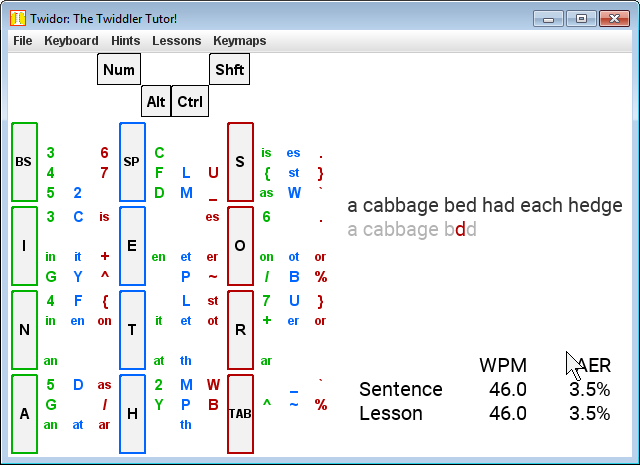
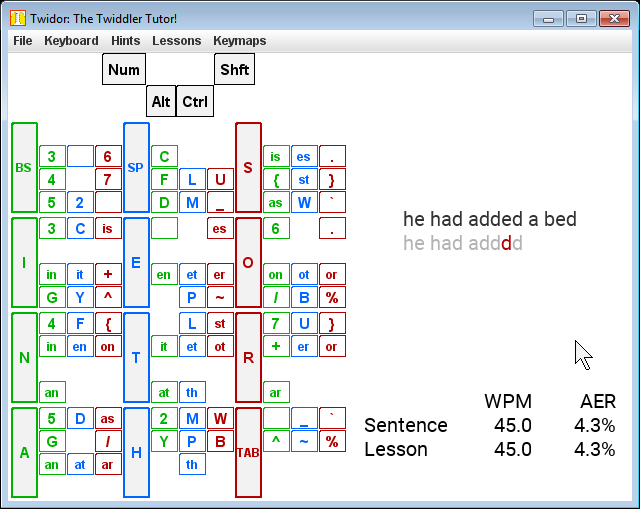
draw boxes around 2nd-key chords in keymap

diff --git a/src/FingerPanel.java b/src/FingerPanel.java
@@ -157,7 +157,7 @@ public class FingerPanel extends JPanel implements TwiddlerSubPanel, TwidorConst
 		{
 			JPanel panel = new JPanel();
 			panel.setComponentOrientation( keyOrient );
-			panel.setLayout(new GridLayout(0, 12, 0, 4));
+			panel.setLayout(new GridLayout(0, 12, 1, 4));
 			panel.setBackground(twiddlerBackground);
 
 			for (int finger = 0; finger < 4; finger++) { // four rows, one per finger
@@ -172,28 +172,28 @@ public class FingerPanel extends JPanel implements TwiddlerSubPanel, TwidorConst
 						for (int chordCol = 0; chordCol < 3; chordCol++) {
 							JPanel subPanel = new JPanel();
 							subPanel.setComponentOrientation( keyOrient );
-							subPanel.setLayout(new GridLayout(4, 1, 0, 0));
+							subPanel.setLayout(new GridLayout(4, 1, 1, 1));
 							subPanel.setBackground(twiddlerBackground);
 							for (int chordFinger = 0; chordFinger < 4; chordFinger++) { // anchor finger
 								if (finger != chordFinger && visibleKeys) {
 									((KeyStatus)buttons.elementAt(chordFinger * FINGER_OFFSET + chordCol)).setStatus(true);
 									KeyElement myButton = keys.getKey(buttons);
+									Color color = keyRed;
+									Border border = redBorder;
+									if (chordCol == 1) {
+										color  = keyBlue;
+										border = blueBorder;
+									}
+									else if (chordCol == 2) {
+										color  = keyGreen;
+										border = greenBorder;
+									}
+									JLabel label = new JLabel();
+									label.setFont(FONT_KEYPAD);
+									label.setHorizontalAlignment(JLabel.CENTER);
+									label.setBorder(border);
+									label.setForeground( color );
 									if (myButton != null) {
-										Color color = Color.YELLOW;
-										if (chordCol == 0) {
-											color = keyRed;
-										}
-										else if (chordCol == 1) {
-											color  = keyBlue;
-										}
-										else if (chordCol == 2) {
-											color  = keyGreen;
-										}
-										JLabel label = new JLabel();
-										label.setFont(FONT_KEYPAD);
-										label.setHorizontalAlignment(JLabel.CENTER);
-										label.setBorder(noBorder);
-										label.setForeground( color );
 										String displayLetter = myButton.displayLetter();
 										if( displayLetter.length() == 1 ) {
 											label.setText(myButton.displayLetter().toUpperCase());
@@ -225,13 +225,14 @@ public class FingerPanel extends JPanel implements TwiddlerSubPanel, TwidorConst
 						JPanel subPanel = new JPanel();
 						subPanel.setBackground(buttonBackground);
 						subPanel.setLayout(new GridLayout(3, 1));
-						Border border = lineBorder;
-						if (fingerCol == 0) {
-							border = redBorder;
-						} else if (fingerCol == 1) {
-							border = blueBorder;
+						Color color = keyRed;
+						Border border = thickRedBorder;
+						if (fingerCol == 1) {
+							color  = keyBlue;
+							border = thickBlueBorder;
 						} else if (fingerCol == 2) {
-							border = greenBorder;
+							color  = keyGreen;
+							border = thickGreenBorder;
 						}
 						subPanel.setBorder(border);
 						subPanel.add(new JLabel()); // empty top row (label is in middle)
@@ -239,9 +240,9 @@ public class FingerPanel extends JPanel implements TwiddlerSubPanel, TwidorConst
 						if (myButton != null && visibleKeys) {
 							String keyLabel = getLabel(myButton);
 							if (keyLabel.length() > 1) {
-								add_label( subPanel, TEXT_DEFAULT,  FONT_MACRO, keyLabel);
+								add_label( subPanel, color,  FONT_MACRO, keyLabel);
 							} else {
-								add_label( subPanel, TEXT_DEFAULT,  FONT_KEYPAD, keyLabel);
+								add_label( subPanel, color,  FONT_KEYPAD, keyLabel);
 							}
 						} else {
 							subPanel.add(new JLabel());

diff --git a/src/TwidorConstants.java b/src/TwidorConstants.java
@@ -70,9 +70,12 @@ public interface TwidorConstants {
 	public static final Color keyRed    = Color.getHSBColor(0.0000f, 1.f, .7f);
 	public static final Color keyBlue   = Color.getHSBColor(0.6000f, 1.f, 1.f);
 	public static final Color keyGreen  = Color.getHSBColor(0.3333f, 1.f, .7f);
-	public static Border redBorder = BorderFactory.createLineBorder(keyRed, 2, true);
-	public static Border blueBorder = BorderFactory.createLineBorder(keyBlue, 2, true);
-	public static Border greenBorder = BorderFactory.createLineBorder(keyGreen, 2, true);
+	public static Border thickRedBorder = BorderFactory.createLineBorder(keyRed, 2, true);
+	public static Border thickBlueBorder = BorderFactory.createLineBorder(keyBlue, 2, true);
+	public static Border thickGreenBorder = BorderFactory.createLineBorder(keyGreen, 2, true);
+	public static Border redBorder = BorderFactory.createLineBorder(keyRed, 1, true);
+	public static Border blueBorder = BorderFactory.createLineBorder(keyBlue, 1, true);
+	public static Border greenBorder = BorderFactory.createLineBorder(keyGreen, 1, true);
 
 	/**
 	 * fonts
